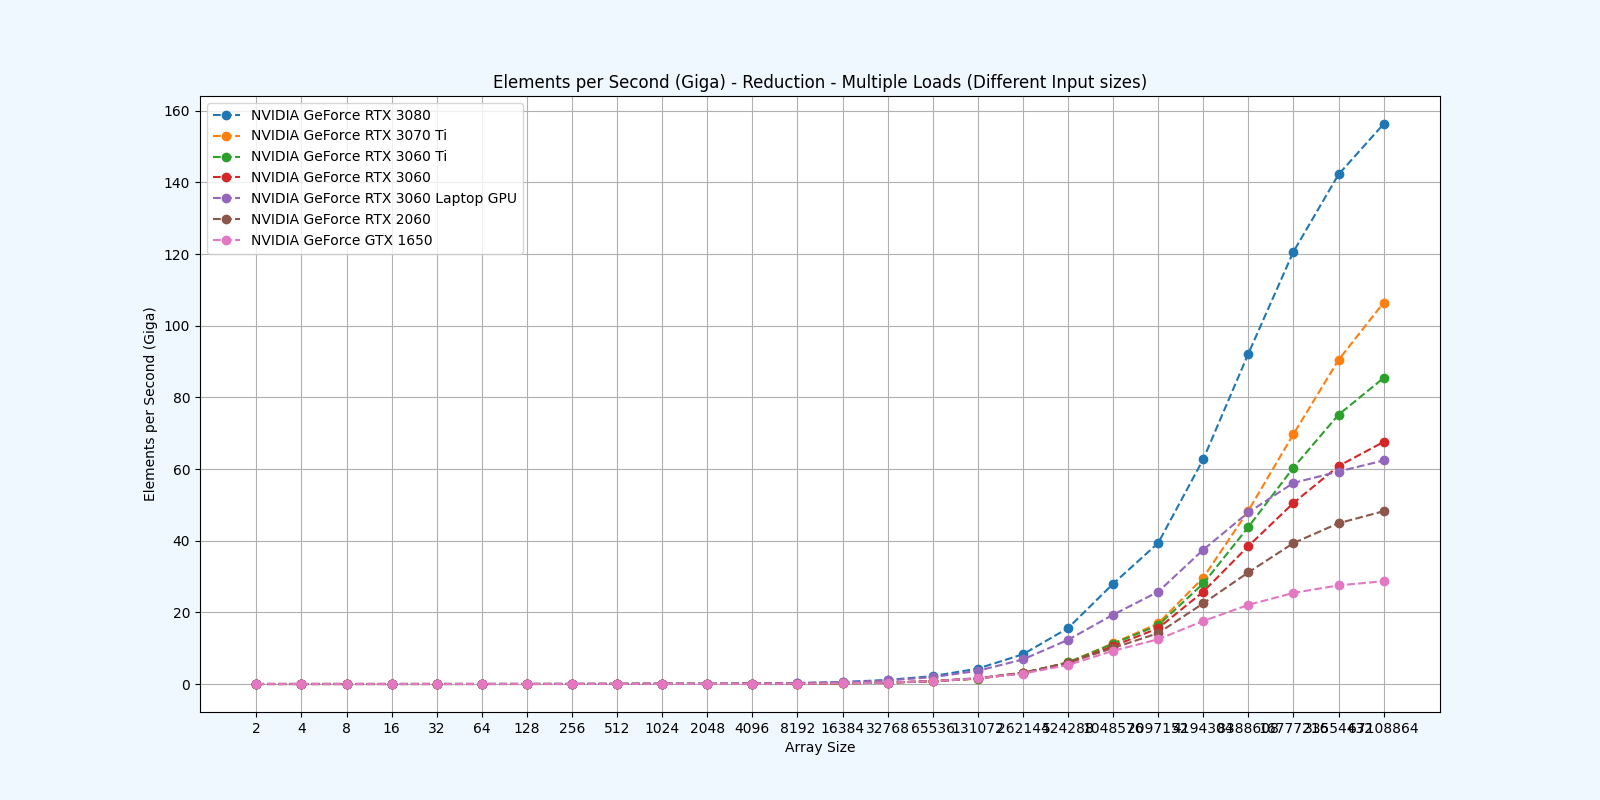
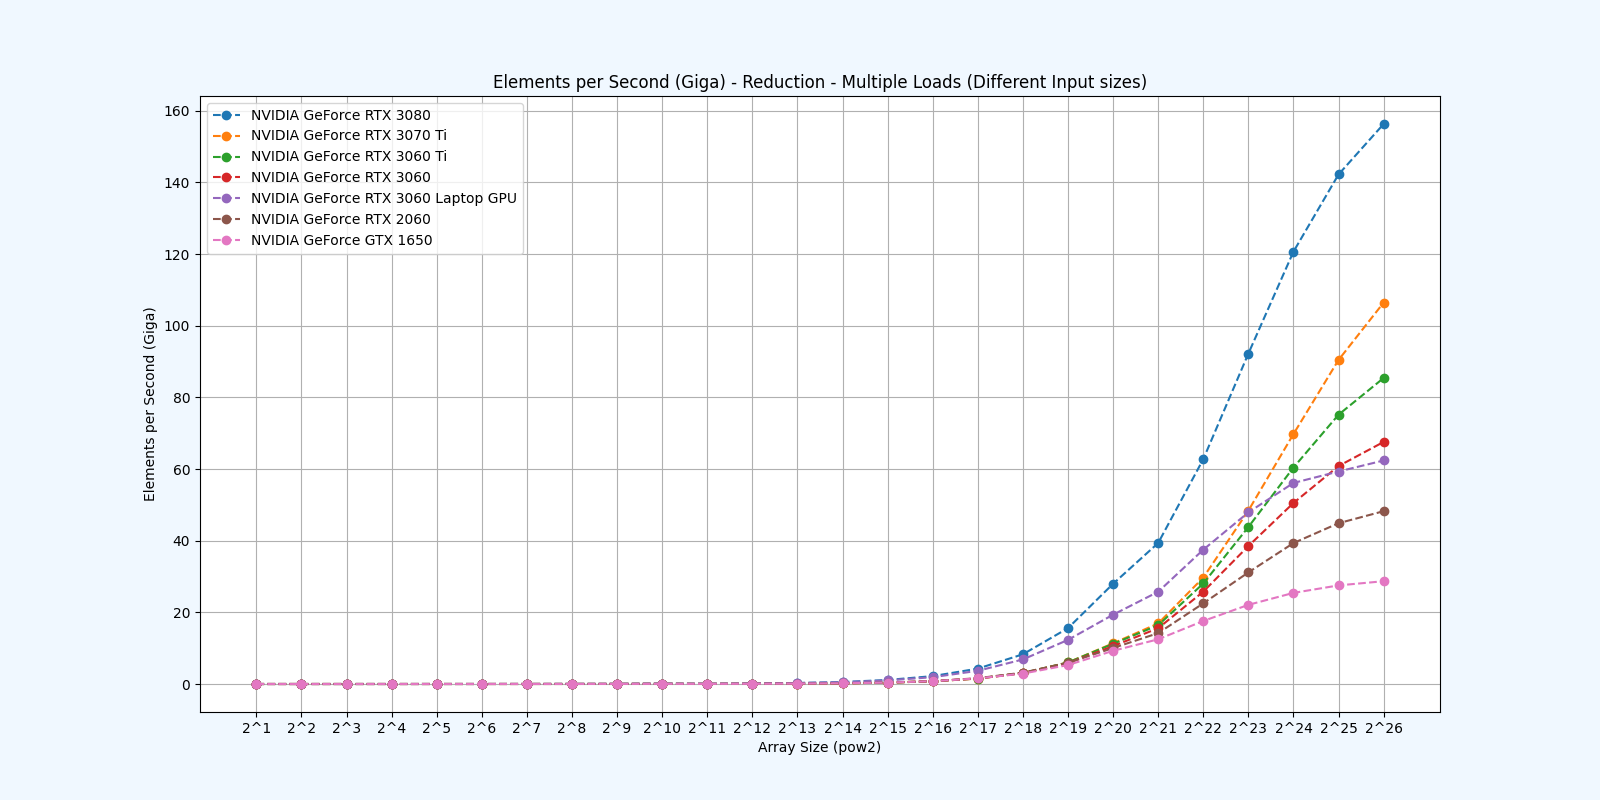
Fixed Reduction plots to show clearly the x-axis Removed an unnecessary condition in a reduction kernel Added README.md for the reduction performance tests

Changed region(s): [[0.375, 0.9062, 0.875, 0.9375], [0.1875, 0.9062, 0.3125, 0.9375]]

diff --git a/Performance-Tests-NvBench/reduction/README.md b/Performance-Tests-NvBench/reduction/README.md
@@ -1,0 +1,272 @@
+# Reduction
+
+
+## Introduction
+
+A reduction algorithm derives a single value from an array of values. The single value could be the sum, the maximal, the minimal, etc. among all elements.
+
+An example of sum reduction is shown below.
+
+![Sum Reduction](Images/sum_reduction.png)
+
+---
+
+## Thread Hierarchy 
+
+The common organization of threads in a reduction algorithm is to use one thread for each element. Below we will see many techniques which utilize threads in different ways.
+
+---
+
+## Code
+
+### Reduction 1: Interleaved Addressing - Diverge Warps
+
+```cpp
+template<typename T> __global__
+void reduction1(T* X, uint32_t n, T* Y){
+
+    extern __shared__ uint8_t shared_mem[];
+    T* partial_sum = reinterpret_cast<T*>(shared_mem);
+
+    uint32_t tx = threadIdx.x;
+    uint32_t i = blockIdx.x * blockDim.x + threadIdx.x;
+
+    // Load the elements of the array into the shared memory
+    partial_sum[tx] = i < n ? X[i] : 0;
+    __syncthreads();
+
+    // Accumulate the elements using reduction
+    for(uint32_t stride = 1; stride < blockDim.x; stride <<= 1){
+        if(tx % (2 * stride) == 0)
+            partial_sum[tx] += tx + stride < n ? partial_sum[tx + stride] : 0;
+        __syncthreads();
+    }
+
+    if(tx == 0) Y[blockIdx.x] = partial_sum[0];
+}
+```
+
+![Interleaved Addressing - Diverge Warps](Images/interleaved_addressing_divergent.png)
+
+First the kernel loads the elements of the array into the shared memory. Then in each iteration, it adds the elements that are $i^2$ elements apart ($i_{th}$ iteration).The first iteration adds the elements that are next to each other. The second iteration adds the elements that are 2 elements apart, etc. The loop ends when the stride is larger than the number of threads in the block.
+
+Finally the kernel writes the result to the output array.
+
+With this kernel the threads that add elements are not consecutive and in each iteration the threads get more diverged. This will cause the warps to rerun a lot of the code.
+
+---
+
+### Reduction 2: Interleaved Addressing - Bank Conflicts
+
+```cpp
+template<typename T> __global__
+void reduction2(T* X, uint32_t n, T* Y){
+
+    extern __shared__ uint8_t shared_mem[];
+    T* partial_sum = reinterpret_cast<T*>(shared_mem);
+
+    uint32_t tx = threadIdx.x;
+    uint32_t i = blockIdx.x * blockDim.x + threadIdx.x;
+
+    // Load the elements of the array into the shared memory
+    partial_sum[tx] = i < n ? X[i] : 0;
+    __syncthreads();
+
+    // Accumulate the elements using reduction
+    for(uint32_t stride = 1; stride < blockDim.x; stride <<= 1){
+        int index = 2 * stride * tx;
+        
+        if (index < blockDim.x)
+            partial_sum[index] += index + stride < n ? partial_sum[index + stride] : 0;
+        __syncthreads();
+    }
+
+    if(tx == 0) Y[blockIdx.x] = partial_sum[0];
+}
+```
+
+![Interleaved Addressing - Bank Conflicts](Images/interleaved_addressing_conflicts.png)
+
+This kernel is similar to the previous one. The only difference is that the threads that add elements are consecutive. This will allow the warps to run the code more efficiently.
+
+The problem with this kernel is that it causes bank conflicts. Bank conflicts happen when two threads access the same bank of the shared memory. Devices with compute capability 2.0 and above have 32 banks that are 32 bits wide. If two threads access the same bank, the second access will be delayed until the first access is finished.
+
+---
+
+### Reduction 3: Sequential Addressing
+
+```cpp
+template<typename T> __global__
+void reduction3(T* X, uint32_t n, T* Y){
+
+    extern __shared__ uint8_t shared_mem[];
+    T* partial_sum = reinterpret_cast<T*>(shared_mem);
+
+    uint32_t tx = threadIdx.x;
+    uint32_t i = blockIdx.x * blockDim.x + threadIdx.x;
+
+    // Load the elements of the array into the shared memory
+    partial_sum[tx] = i < n ? X[i] : 0;
+    __syncthreads();
+
+    // Accumulate the elements using reduction
+    for(uint32_t stride = blockDim.x / 2; stride > 0; stride >>= 1){
+        if(tx < stride)
+            partial_sum[tx] += partial_sum[tx + stride];
+        __syncthreads();
+    }
+
+    if(tx == 0) Y[blockIdx.x] = partial_sum[0];
+}
+```
+
+![Sequential Addressing](Images/sequential_addressing.png)
+
+To avoid bank conflicts, this kernel uses sequential addressing. In each iteration, the threads and the elements are consecutive.
+
+The problem with this kernel is that half of the threads are idle on first loop iteration.
+
+---
+
+### Reduction 4: First Add During Load
+
+```cpp
+template<typename T> __global__
+void reduction4(T* X, uint32_t n, T* Y){
+
+    extern __shared__ uint8_t shared_mem[];
+    T* partial_sum = reinterpret_cast<T*>(shared_mem);
+
+    uint32_t tx = threadIdx.x;
+    uint32_t i = blockIdx.x * (blockDim.x * 2) + threadIdx.x;
+
+    // Load the elements of the array into the shared memory
+    partial_sum[tx] = i < n ? X[i] : 0;
+    partial_sum[tx] += i + blockDim.x < n ? X[i + blockDim.x] : 0;
+    __syncthreads();
+
+    // Accumulate the elements using reduction
+    for(uint32_t stride = blockDim.x / 2; stride > 0; stride >>= 1){
+        if(tx < stride)
+            partial_sum[tx] += partial_sum[tx + stride];
+        __syncthreads();
+    }
+
+    if(tx == 0) Y[blockIdx.x] = partial_sum[0];
+}
+```
+
+Again this kernel is similar to the previous one. The only difference is that each thread loads and adds two elements of the array before the iterations start.
+
+---
+
+### Reduction 5: Unroll Last Warp
+
+```cpp
+template<typename T> __device__ 
+void warpReduce(volatile T* partial_sum, uint32_t tx){
+    partial_sum[tx] += partial_sum[tx + 32];
+    partial_sum[tx] += partial_sum[tx + 16];
+    partial_sum[tx] += partial_sum[tx +  8];
+    partial_sum[tx] += partial_sum[tx +  4];
+    partial_sum[tx] += partial_sum[tx +  2];
+    partial_sum[tx] += partial_sum[tx +  1];
+}
+
+template<typename T, int block_size> __global__
+void reduction5(T* X, uint32_t n, T* Y){
+
+    extern __shared__ uint8_t shared_mem[];
+    T* partial_sum = reinterpret_cast<T*>(shared_mem);
+
+    uint32_t tx = threadIdx.x;
+    uint32_t i = blockIdx.x * (blockDim.x * 2) + threadIdx.x;
+
+    // Load the elements of the array into the shared memory
+    partial_sum[tx] = i < n ? X[i] : 0;
+    partial_sum[tx] += i + blockDim.x < n ? X[i + blockDim.x] : 0;
+
+    // Accumulate the elements using reduction
+    for(uint32_t stride = blockDim.x / 2; stride > 32; stride >>= 1){
+        if(tx < stride)
+            partial_sum[tx] += partial_sum[tx + stride];
+        __syncthreads();
+    }
+
+    if(tx < 32) warpReduce(partial_sum, tx);
+
+    if(tx == 0) Y[blockIdx.x] = partial_sum[0];
+}
+```
+
+The kernel again is similar to the previous one. The only difference is that the last warp is unrolled. This will allow the warp to run the code without control divergence.
+
+---
+
+## Performance
+
+The performance of the kernel is measured in multiple GPUs using the [NvBench](https://github.com/NVIDIA/nvbench) project. The performance measurements that we will be looking at are:
+
+ - **Memory bandwidth**: The amount of data transferred per second.
+ - **Memory bandwidth utilization**: The percentage of the memory bandwidth that is utilized.
+
+---
+
+### Reduction 1: Interleaved Addressing - Diverge Warps
+
+![Interleaved Addressing - Diverge Warps - Memory Bandwidth](BenchResults/plots/Simple%20Reduction%20(Different%20Input%20sizes)%20-%20Memory%20Bandwidth%20(GB%20per%20s).png)
+
+---
+
+![Interleaved Addressing - Diverge Warps - Memory Bandwidth Utilization](BenchResults/plots/Simple%20Reduction%20(Different%20Input%20sizes)%20-%20Memory%20Bandwidth%20Utilization.png)
+
+---
+
+### Reduction 2: Interleaved Addressing - Bank Conflicts
+
+![Interleaved Addressing - Bank Conflicts - Memory Bandwidth](BenchResults/plots/Reduction%20-%20Adjacent%20Threads%20(Different%20Input%20sizes)%20-%20Memory%20Bandwidth%20(GB%20per%20s).png)
+
+---
+
+![Interleaved Addressing - Bank Conflicts - Memory Bandwidth Utilization](BenchResults/plots/Reduction%20-%20Adjacent%20Threads%20(Different%20Input%20sizes)%20-%20Memory%20Bandwidth%20Utilization.png)
+
+---
+
+### Reduction 3: Sequential Addressing
+
+![Sequential Addressing - Memory Bandwidth](BenchResults/plots/Reduction%20-%20Sequential%20Addressing%20(Different%20Input%20sizes)%20-%20Memory%20Bandwidth%20(GB%20per%20s).png)
+
+---
+
+![Sequential Addressing - Memory Bandwidth Utilization](BenchResults/plots/Reduction%20-%20Sequential%20Addressing%20(Different%20Input%20sizes)%20-%20Memory%20Bandwidth%20Utilization.png)
+
+---
+
+### Reduction 4: First Add During Load
+
+![First Add During Load - Memory Bandwidth](BenchResults/plots/Reduction%20-%20Two%20Loads%20per%20Thread%20(Different%20Input%20sizes)%20-%20Memory%20Bandwidth%20(GB%20per%20s).png)
+
+---
+
+![First Add During Load - Memory Bandwidth Utilization](BenchResults/plots/Reduction%20-%20Two%20Loads%20per%20Thread%20(Different%20Input%20sizes)%20-%20Memory%20Bandwidth%20Utilization.png)
+---
+
+### Reduction 5: Unroll Last Warp
+
+![Unroll Last Warp - Memory Bandwidth](BenchResults/plots/Reduction%20-%20Unroll%20Last%20Warp%20(Different%20Input%20sizes)%20-%20Memory%20Bandwidth%20(GB%20per%20s).png)
+
+---
+
+![Unroll Last Warp - Memory Bandwidth Utilization](BenchResults/plots/Reduction%20-%20Unroll%20Last%20Warp%20(Different%20Input%20sizes)%20-%20Memory%20Bandwidth%20Utilization.png)
+
+---
+
+### Conclusion
+
+As expected with each kernel we see an increase in the memory bandwidth utilization. 
+
+In each kernel a different idea/technique was used to achieve this. 
+
+All modifications achieved great increases in memory bandwidth utilization starting from 10-20% utilization to 50-90% utilization.
+
+---

diff --git a/Performance-Tests-NvBench/array_add/README.md b/Performance-Tests-NvBench/array_add/README.md
@@ -115,6 +115,6 @@ We can observe a few things:
 - When the kernel access elements in a coalesced manner all the GPUs achieve better performance as expected. 
 - The kernel that accesses elements in a non-coalesced manner achieves the best memory bandwidth when the axis size is 1024 and then the bandwidth either drops or gets a bit higher. 
 
-A reason for the latter might be that each Streaming Multiprocessor (SM) can have up to 1024 threads in older GPUs (GTX 1650 and RTX 2060) and the other GPUs (RTX 3060l, 3060, 3060ti, 3070ti, 3080) can have up to 1536 threads. This means that between SMs there is a change that the threads will try to load elements that are adjacent to each other. This possibility drops as the axis size increases and SMs might load elements from the same column.
+A reason for the latter might be that each Streaming Multiprocessor (SM) can have up to 1024 threads in older GPUs (GTX 1650 and RTX 2060) and the other GPUs (RTX 3060l, 3060, 3060ti, 3070ti, 3080) can have up to 1536 threads. This means that between SMs there is a change that the threads will try to load elements that are adjacent to each other. This possibility drops as the axis size increases.
 
 ---
